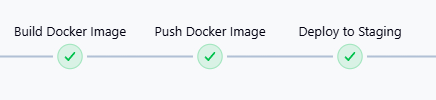
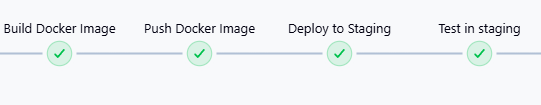
modifying the jenkinsfile

Changed region(s): [[0.0, 0.21, 1.0, 0.69]]

diff --git a/README.md b/README.md
@@ -84,6 +84,10 @@ Now, we want to build the jar file, then build the docker image and push the lat
 
 **![Stage deploy](./images/deployment/stage_deploy.png)**
 
+**![Stage deploy](./images/deployment/app_staging_interface.png)**
+
+**![Stage deploy](./images/deployment/inside_app_staging_interface.png)**
+
 ## **5) Deployment and Validation in production environment**
 
 **![Prod deploy](./images/deployment/deploy_prod.png)**
